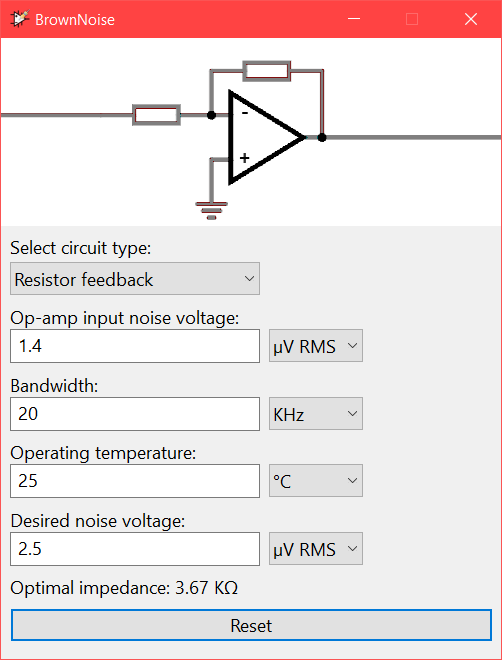
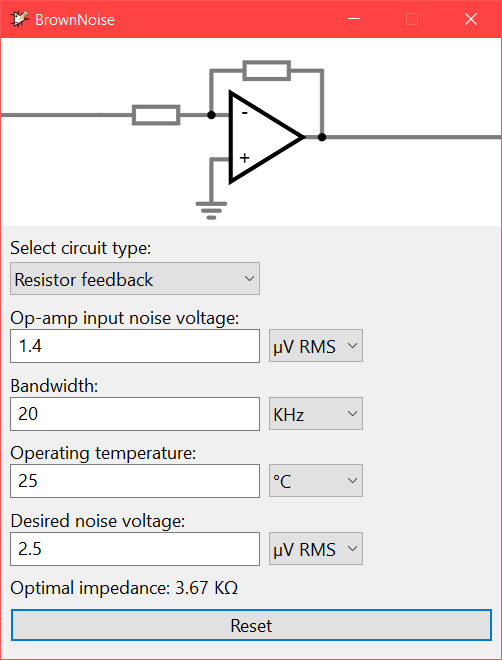
Fix StrechBlt horrible quality, RMS as default, better reset

diff --git a/src/app.c b/src/app.c
@@ -51,26 +51,26 @@ bool bn_init(bndata_t * restrict This, HINSTANCE hInst)
 			.bmp  = NULL,
 
 			.circuitTypeHandle = NULL,
-			.circuitTypeIdx    = circtype_norm,
+			.circuitTypeIdx    = circtype_default,
 			
 			.noiseTextHandle = NULL,
 			.noiseUnitHandle = NULL,
-			.noiseUnitIdx    = nutype_nv_rthz,
+			.noiseUnitIdx    = nutype_default,
 			.noiseValue      = 0.0,
 
 			.bwTextHandle = NULL,
 			.bwUnitHandle = NULL,
-			.bwUnitIdx    = bwutype_khz,
+			.bwUnitIdx    = bwutype_default,
 			.bwValue      = 0.0,
 
 			.tempTextHandle = NULL,
 			.tempUnitHandle = NULL,
-			.tempUnitIdx    = tutype_celsius,
+			.tempUnitIdx    = tutype_default,
 			.tempValue      = 0.0,
 			
 			.desiredNTextHandle = NULL,
 			.desiredNUnitHandle = NULL,
-			.desiredNUnitIdx    = nutype_nv_rthz,
+			.desiredNUnitIdx    = nutype_default,
 			.desiredNValue      = 0.0
 		},
 
@@ -140,15 +140,14 @@ HWND bn_createDrop(
 	int x, int y,
 	int cx, int cy,
 	HWND parent, HMENU hmenu,
-	const wchar ** restrict options, usize numopt, usize defopt
+	const wchar ** restrict options, usize numopt
 )
 {
 	assert(parent != NULL);
 	assert(options != NULL);
 	assert(numopt > 0);
-	assert(((WPARAM)numopt) != (WPARAM)-1);
+	assert(((WPARAM)numopt) != ((WPARAM)-1));
 	assert(options[0] != NULL);
-	assert(defopt < numopt);
 
 	HWND box = CreateWindowExW(
 		0,
@@ -173,10 +172,29 @@ HWND bn_createDrop(
 		SendMessageW(box, CB_ADDSTRING, 0, (LPARAM)options[i]);
 	}
 
+	return box;
+}
+HWND bn_createDropDef(
+	int x, int y,
+	int cx, int cy,
+	HWND parent, HMENU hmenu,
+	const wchar ** restrict options, usize numopt, usize defopt
+)
+{
+	HWND box = bn_createDrop(
+		x, y,
+		cx, cy,
+		parent, hmenu,
+		options, numopt
+	);
+	if (box == NULL)
+	{
+		return NULL;
+	}
+
 	// Set default value
-	const WPARAM wpdefopt = (WPARAM)defopt;
-	assert(wpdefopt != (WPARAM)-1);
-	SendMessageW(box, CB_SETCURSEL, wpdefopt, 0);
+	assert(((WPARAM)defopt) < ((WPARAM)numopt));
+	bn_setDropSel(box, defopt);
 
 	return box;
 }
@@ -202,6 +220,12 @@ HWND bn_createNumText(
 usize bn_getDropSel(HWND drop)
 {
 	return (usize)SendMessageW(drop, CB_GETCURSEL, 0, 0);
+}
+void bn_setDropSel(HWND drop, usize sel)
+{
+	const WPARAM wpdefopt = (WPARAM)sel;
+	assert(wpdefopt != (WPARAM)-1);
+	SendMessageW(drop, CB_SETCURSEL, wpdefopt, 0);
 }
 void bn_setFont(HWND hwnd, HFONT hfont)
 {
@@ -397,7 +421,7 @@ void bn_createUI(bndata_t * restrict This)
 		bn_defcdpi(DROPTYPE_POS_X), bn_defcdpi(DROPTYPE_POS_Y),
 		bn_defcdpi(DROPTYPE_SIZE_X), bn_defcdpi(DROPTYPE_SIZE_Y),
 		This->hwnd, (HMENU)IDD_DROPTYPE,
-		s_def.droptype, DROPTYPE_SIZE, This->ui.circuitTypeIdx
+		s_def.droptype, DROPTYPE_SIZE
 	);
 	bn_setFont(This->ui.circuitTypeHandle, This->normFont);
 
@@ -412,7 +436,7 @@ void bn_createUI(bndata_t * restrict This)
 		bn_defcdpi(DROPNOISEU_POS_X),  bn_defcdpi(DROPNOISEU_POS_Y),
 		bn_defcdpi(DROPNOISEU_SIZE_X), bn_defcdpi(DROPNOISEU_SIZE_Y),
 		This->hwnd, (HMENU)IDD_DROPNOISEU,
-		s_def.dropnoiseu, DROPNOISEU_SIZE, This->ui.noiseUnitIdx
+		s_def.dropnoiseu, DROPNOISEU_SIZE
 	);
 	bn_setFont(This->ui.noiseUnitHandle, This->normFont);
 
@@ -427,7 +451,7 @@ void bn_createUI(bndata_t * restrict This)
 		bn_defcdpi(DROPBWUNIT_POS_X),  bn_defcdpi(DROPBWUNIT_POS_Y),
 		bn_defcdpi(DROPBWUNIT_SIZE_X), bn_defcdpi(DROPBWUNIT_SIZE_Y),
 		This->hwnd, (HMENU)IDD_DROPBWUNIT,
-		s_def.dropbwunit, DROPBWUNIT_SIZE, This->ui.bwUnitIdx
+		s_def.dropbwunit, DROPBWUNIT_SIZE
 	);
 	bn_setFont(This->ui.bwUnitHandle, This->normFont);
 
@@ -442,7 +466,7 @@ void bn_createUI(bndata_t * restrict This)
 		bn_defcdpi(DROPTUNIT_POS_X),  bn_defcdpi(DROPTUNIT_POS_Y),
 		bn_defcdpi(DROPTUNIT_SIZE_X), bn_defcdpi(DROPTUNIT_SIZE_Y),
 		This->hwnd, (HMENU)IDD_DROPTUNIT,
-		s_def.droptunit, DROPTUNIT_SIZE, This->ui.tempUnitIdx
+		s_def.droptunit, DROPTUNIT_SIZE
 	);
 	bn_setFont(This->ui.tempUnitHandle, This->normFont);
 
@@ -457,9 +481,11 @@ void bn_createUI(bndata_t * restrict This)
 		bn_defcdpi(DROPDESIREDN_POS_X),  bn_defcdpi(DROPDESIREDN_POS_Y),
 		bn_defcdpi(DROPDESIREDN_SIZE_X), bn_defcdpi(DROPDESIREDN_SIZE_Y),
 		This->hwnd, (HMENU)IDD_DROPDESIREDN,
-		s_def.dropnoiseu, DROPNOISEU_SIZE, This->ui.desiredNUnitIdx
+		s_def.dropnoiseu, DROPNOISEU_SIZE
 	);
 	bn_setFont(This->ui.desiredNUnitHandle, This->normFont);
+
+	bn_setDefaults(This);
 
 	This->ui.resetBtn = CreateWindowExW(
 		0,
@@ -553,6 +579,8 @@ void bn_paint(bndata_t * restrict This, HDC hdc)
 
 	BITMAP bitmap;
 	GetObject(This->ui.bmp, sizeof bitmap, &bitmap);
+	// Set StrechBlt mode
+	SetStretchBltMode(hdc, HALFTONE);
 	StretchBlt(
 		hdc,
 		0, 0,
@@ -700,12 +728,7 @@ void bn_command(bndata_t * restrict This, WPARAM wp, LPARAM lp)
 		{
 		// Reset button
 		case IDM_RESET:
-			SetWindowTextW(This->ui.noiseTextHandle,    L"");
-			SetWindowTextW(This->ui.bwTextHandle,       L"");
-			SetWindowTextW(This->ui.tempTextHandle,     L"");
-			SetWindowTextW(This->ui.desiredNTextHandle, L"");
-			
-			SetFocus(This->ui.noiseTextHandle);
+			bn_setDefaults(This);
 			break;
 		}
 	}
@@ -804,4 +827,19 @@ void bn_update(bndata_t * restrict This)
 		};
 		InvalidateRect(This->hwnd, &tr, TRUE);
 	}
+}
+void bn_setDefaults(bndata_t * restrict This)
+{
+	SetWindowTextW(This->ui.noiseTextHandle,    DEF_NTEXT);
+	SetWindowTextW(This->ui.bwTextHandle,       DEF_BWTEXT);
+	SetWindowTextW(This->ui.tempTextHandle,     DEF_TTEXT);
+	SetWindowTextW(This->ui.desiredNTextHandle, DEF_DNTEXT);
+
+	bn_setDropSel(This->ui.circuitTypeHandle,  This->ui.circuitTypeIdx  = circtype_default);
+	bn_setDropSel(This->ui.noiseUnitHandle,    This->ui.noiseUnitIdx    = nutype_default);
+	bn_setDropSel(This->ui.bwUnitHandle,       This->ui.bwUnitIdx       = bwutype_default);
+	bn_setDropSel(This->ui.tempUnitHandle,     This->ui.tempUnitIdx     = tutype_default);
+	bn_setDropSel(This->ui.desiredNUnitHandle, This->ui.desiredNUnitIdx = nutype_default);
+
+	SetFocus(This->ui.noiseTextHandle);
 }

diff --git a/src/app.h b/src/app.h
@@ -8,7 +8,9 @@ enum circuitType
 {
 	circtype_norm,
 	circtype_diff,
-	circtype_integrator
+	circtype_integrator,
+
+	circtype_default = circtype_norm
 };
 #define DROPTYPE_SIZE 3
 
@@ -16,7 +18,9 @@ enum circuitType
 enum nUnitType
 {
 	nutype_nv_rthz,
-	nutype_uv_rms
+	nutype_uv_rms,
+
+	nutype_default = nutype_uv_rms
 };
 #define DROPNOISEU_SIZE 2
 
@@ -29,7 +33,9 @@ enum bwUnitType
 	bwutype_hz,
 	bwutype_khz,
 	bwutype_mhz,
-	bwutype_ghz
+	bwutype_ghz,
+
+	bwutype_default = bwutype_khz
 };
 #define DROPBWUNIT_SIZE 4
 
@@ -38,12 +44,19 @@ enum tUnitType
 {
 	tutype_celsius,
 	tutype_kelvin,
-	tutype_fahrenheit
+	tutype_fahrenheit,
+
+	tutype_default = tutype_celsius
 };
 #define DROPTUNIT_SIZE 3
 
 
 #define MAX_RESULT 100
+
+#define DEF_NTEXT  L""
+#define DEF_BWTEXT L"20"
+#define DEF_TTEXT  L"25"
+#define DEF_DNTEXT L""
 
 typedef struct bnui
 {
@@ -95,6 +108,12 @@ HWND bn_createDrop(
 	int x, int y,
 	int cx, int cy,
 	HWND parent, HMENU hmenu,
+	const wchar ** restrict options, usize numopt
+);
+HWND bn_createDropDef(
+	int x, int y,
+	int cx, int cy,
+	HWND parent, HMENU hmenu,
 	const wchar ** restrict options, usize numopt, usize defopt
 );
 HWND bn_createNumText(
@@ -103,6 +122,7 @@ HWND bn_createNumText(
 	HWND parent, HMENU hmenu
 );
 usize bn_getDropSel(HWND drop);
+void bn_setDropSel(HWND drop, usize sel);
 void bn_setFont(HWND hwnd, HFONT hfont);
 bool bn_getBorder(HWND hwnd, int * restrict bx, int * restrict by);
 void bn_setWindowSize(HWND hwnd, int cx, int cy);
@@ -117,5 +137,6 @@ void bn_size(bndata_t * restrict This);
 void bn_paint(bndata_t * restrict This, HDC hdc);
 void bn_command(bndata_t * restrict This, WPARAM wp, LPARAM lp);
 void bn_update(bndata_t * restrict This);
+void bn_setDefaults(bndata_t * restrict This);
 
 #endif

diff --git a/src/resource.h b/src/resource.h
@@ -7,8 +7,8 @@
 #define BROWN_NOISE_TITLE_ASCII "BrownNoise"
 #define BROWN_NOISE_TITLE (L"" BROWN_NOISE_TITLE_ASCII)
 
-#define VERSION_SEQUENCE      0,2
-#define VERSION_SEQUENCE_STR "0.2"
+#define VERSION_SEQUENCE      0,3
+#define VERSION_SEQUENCE_STR "0.3"
 
 #define IDB_NORM 101
 #define IDB_DIFF 102

diff --git a/README.md b/README.md
@@ -28,6 +28,10 @@ This application allows users to enter in desired operating temperature and op-a
 
 # Changelog
 
+* 0.3
+	* [x] Fix StretchBlt horrible quality -> images now clear
+	* [x] RMS-noise as default unit
+	* [x] Better reset function
 * 0.2
 	* [x] Compressed the images -> replaced BMP with PNG
 * 0.1
